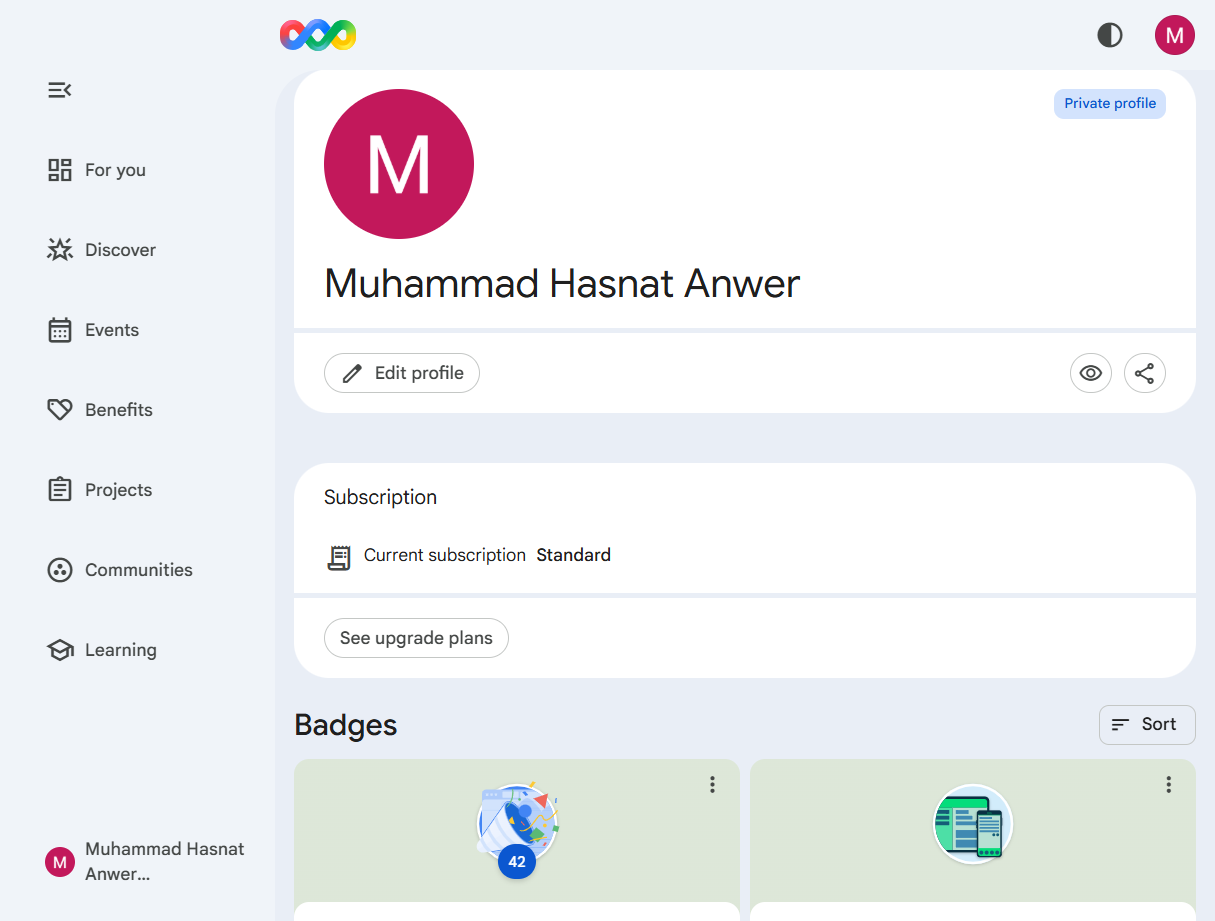
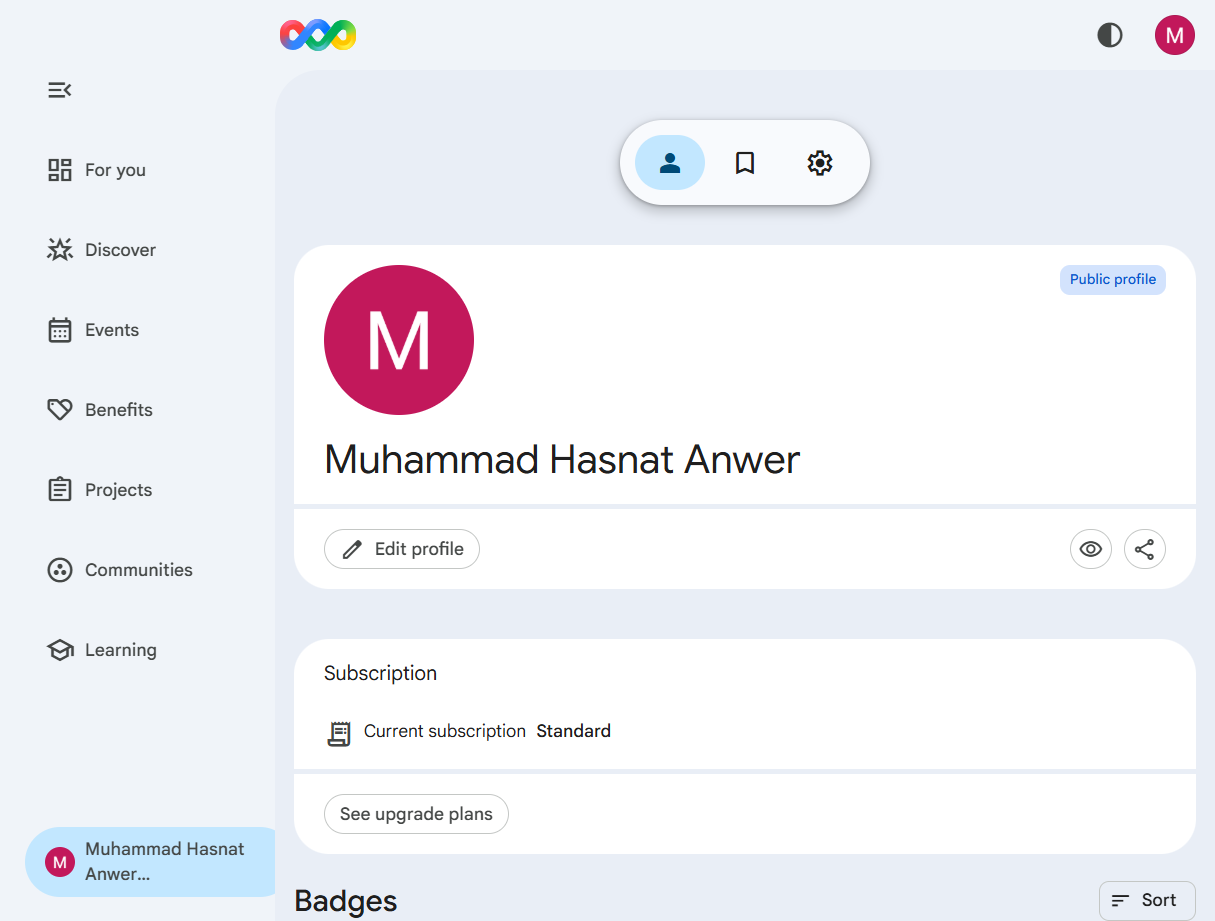
Replace profile evidence with public profile screenshot

diff --git a/ASSESSMENT_STATUS.md b/ASSESSMENT_STATUS.md
@@ -30,7 +30,7 @@ This file separates completed repository work from evidence and writing that onl
 - [x] Reflection drafted from the completed work for student review
 - [x] Badge table in the main README completed
 - [ ] APA 7 references verified and completed
-- [ ] GitHub Pages/repository links checked while signed out
+- [x] Android Developers profile visibility confirmed as public
 - [x] Submission PDF created with repository URL, Android Developers profile URL, and badge summary
 - [ ] Final originality, spelling, build, and evidence audit completed
 

diff --git a/Assets/README.md b/Assets/README.md
@@ -8,4 +8,4 @@ Repository-wide authentic evidence:
 
 Do not add generated or edited achievement evidence.
 
-The current screenshot visibly labels the account as a private profile. The student should enable public profile visibility and replace this image with an updated public-profile screenshot before final submission.
+The screenshot visibly confirms that the Android Developers profile is public.
